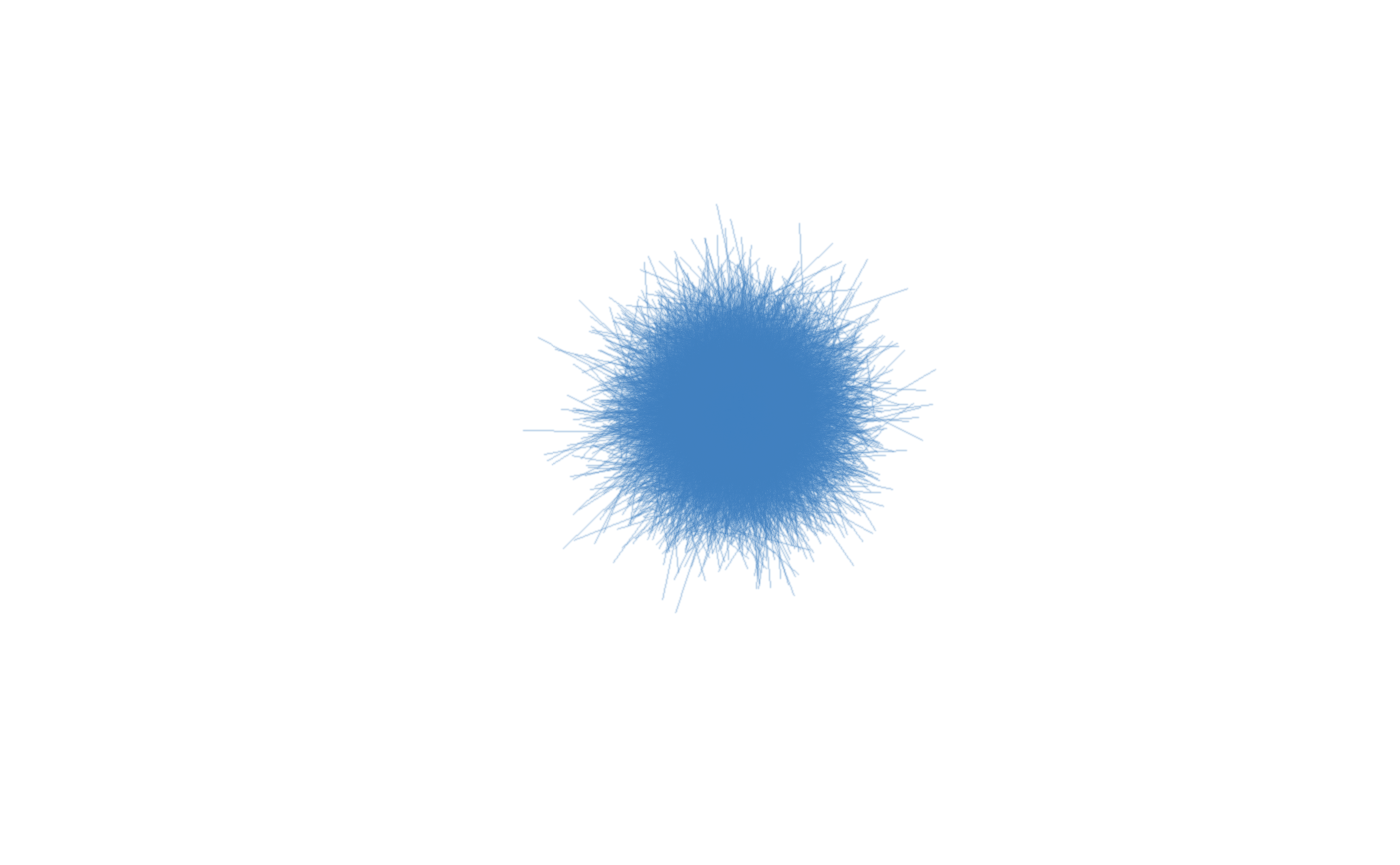
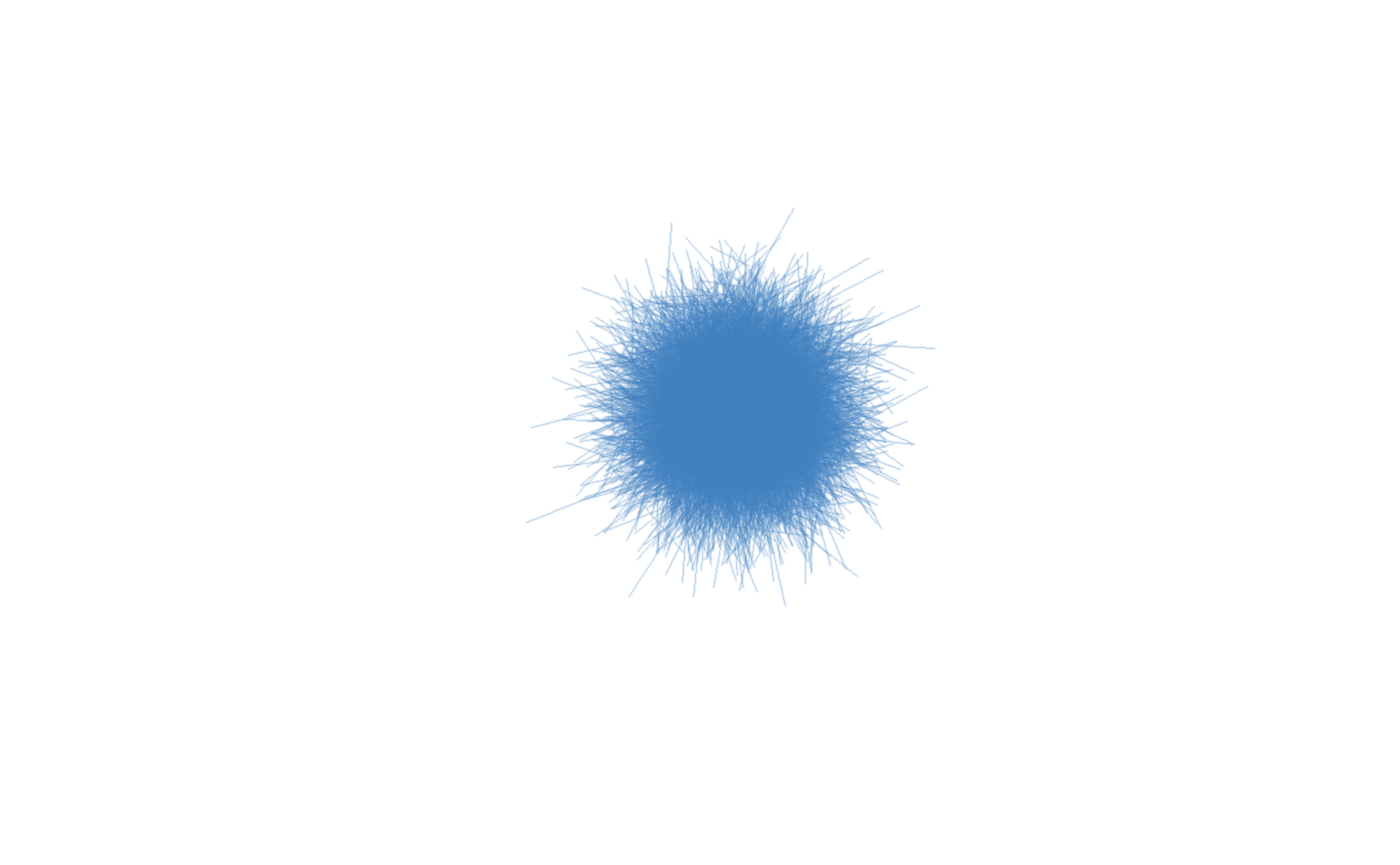
Built site for scattermore: 1.0@1b5859e

Changed region(s): [[0.3993, 0.2809, 0.6757, 0.6867]]

diff --git a/reference/scatter_lines_rgbwt.html b/reference/scatter_lines_rgbwt.html
@@ -68,8 +68,8 @@
     <div id="ref-usage">
     <div class="sourceCode"><pre class="sourceCode r"><code><span><span class="fu">scatter_lines_rgbwt</span><span class="op">(</span></span>
 <span>  <span class="va">xy</span>,</span>
-<span>  xlim <span class="op">=</span> <span class="fu"><a href="https://rdrr.io/r/base/c.html" class="external-link">c</a></span><span class="op">(</span><span class="fu"><a href="https://rdrr.io/r/base/Extremes.html" class="external-link">min</a></span><span class="op">(</span><span class="va">xy</span><span class="op">)</span>, <span class="fu"><a href="https://rdrr.io/r/base/Extremes.html" class="external-link">max</a></span><span class="op">(</span><span class="va">xy</span><span class="op">)</span><span class="op">)</span>,</span>
-<span>  ylim <span class="op">=</span> <span class="fu"><a href="https://rdrr.io/r/base/c.html" class="external-link">c</a></span><span class="op">(</span><span class="fu"><a href="https://rdrr.io/r/base/Extremes.html" class="external-link">min</a></span><span class="op">(</span><span class="va">xy</span><span class="op">)</span>, <span class="fu"><a href="https://rdrr.io/r/base/Extremes.html" class="external-link">max</a></span><span class="op">(</span><span class="va">xy</span><span class="op">)</span><span class="op">)</span>,</span>
+<span>  xlim <span class="op">=</span> <span class="fu"><a href="https://rdrr.io/r/base/c.html" class="external-link">c</a></span><span class="op">(</span><span class="fu"><a href="https://rdrr.io/r/base/Extremes.html" class="external-link">min</a></span><span class="op">(</span><span class="va">xy</span><span class="op">[</span>, <span class="fu"><a href="https://rdrr.io/r/base/c.html" class="external-link">c</a></span><span class="op">(</span><span class="fl">1</span>, <span class="fl">3</span><span class="op">)</span><span class="op">]</span><span class="op">)</span>, <span class="fu"><a href="https://rdrr.io/r/base/Extremes.html" class="external-link">max</a></span><span class="op">(</span><span class="va">xy</span><span class="op">[</span>, <span class="fu"><a href="https://rdrr.io/r/base/c.html" class="external-link">c</a></span><span class="op">(</span><span class="fl">1</span>, <span class="fl">3</span><span class="op">)</span><span class="op">]</span><span class="op">)</span><span class="op">)</span>,</span>
+<span>  ylim <span class="op">=</span> <span class="fu"><a href="https://rdrr.io/r/base/c.html" class="external-link">c</a></span><span class="op">(</span><span class="fu"><a href="https://rdrr.io/r/base/Extremes.html" class="external-link">min</a></span><span class="op">(</span><span class="va">xy</span><span class="op">[</span>, <span class="fu"><a href="https://rdrr.io/r/base/c.html" class="external-link">c</a></span><span class="op">(</span><span class="fl">2</span>, <span class="fl">4</span><span class="op">)</span><span class="op">]</span><span class="op">)</span>, <span class="fu"><a href="https://rdrr.io/r/base/Extremes.html" class="external-link">max</a></span><span class="op">(</span><span class="va">xy</span><span class="op">[</span>, <span class="fu"><a href="https://rdrr.io/r/base/c.html" class="external-link">c</a></span><span class="op">(</span><span class="fl">2</span>, <span class="fl">4</span><span class="op">)</span><span class="op">]</span><span class="op">)</span><span class="op">)</span>,</span>
 <span>  out_size <span class="op">=</span> <span class="fu"><a href="https://rdrr.io/r/base/c.html" class="external-link">c</a></span><span class="op">(</span><span class="fl">512</span>, <span class="fl">512</span><span class="op">)</span>,</span>
 <span>  RGBA <span class="op">=</span> <span class="fu"><a href="https://rdrr.io/r/base/c.html" class="external-link">c</a></span><span class="op">(</span><span class="fl">0</span>, <span class="fl">0</span>, <span class="fl">0</span>, <span class="fl">255</span><span class="op">)</span>,</span>
 <span>  skip_start_pixel <span class="op">=</span> <span class="cn">FALSE</span>,</span>

diff --git a/reference/scatter_lines_histogram.html b/reference/scatter_lines_histogram.html
@@ -68,8 +68,8 @@
     <div id="ref-usage">
     <div class="sourceCode"><pre class="sourceCode r"><code><span><span class="fu">scatter_lines_histogram</span><span class="op">(</span></span>
 <span>  <span class="va">xy</span>,</span>
-<span>  xlim <span class="op">=</span> <span class="fu"><a href="https://rdrr.io/r/base/c.html" class="external-link">c</a></span><span class="op">(</span><span class="fu"><a href="https://rdrr.io/r/base/Extremes.html" class="external-link">min</a></span><span class="op">(</span><span class="va">xy</span><span class="op">)</span>, <span class="fu"><a href="https://rdrr.io/r/base/Extremes.html" class="external-link">max</a></span><span class="op">(</span><span class="va">xy</span><span class="op">)</span><span class="op">)</span>,</span>
-<span>  ylim <span class="op">=</span> <span class="fu"><a href="https://rdrr.io/r/base/c.html" class="external-link">c</a></span><span class="op">(</span><span class="fu"><a href="https://rdrr.io/r/base/Extremes.html" class="external-link">min</a></span><span class="op">(</span><span class="va">xy</span><span class="op">)</span>, <span class="fu"><a href="https://rdrr.io/r/base/Extremes.html" class="external-link">max</a></span><span class="op">(</span><span class="va">xy</span><span class="op">)</span><span class="op">)</span>,</span>
+<span>  xlim <span class="op">=</span> <span class="fu"><a href="https://rdrr.io/r/base/c.html" class="external-link">c</a></span><span class="op">(</span><span class="fu"><a href="https://rdrr.io/r/base/Extremes.html" class="external-link">min</a></span><span class="op">(</span><span class="va">xy</span><span class="op">[</span>, <span class="fu"><a href="https://rdrr.io/r/base/c.html" class="external-link">c</a></span><span class="op">(</span><span class="fl">1</span>, <span class="fl">3</span><span class="op">)</span><span class="op">]</span><span class="op">)</span>, <span class="fu"><a href="https://rdrr.io/r/base/Extremes.html" class="external-link">max</a></span><span class="op">(</span><span class="va">xy</span><span class="op">[</span>, <span class="fu"><a href="https://rdrr.io/r/base/c.html" class="external-link">c</a></span><span class="op">(</span><span class="fl">1</span>, <span class="fl">3</span><span class="op">)</span><span class="op">]</span><span class="op">)</span><span class="op">)</span>,</span>
+<span>  ylim <span class="op">=</span> <span class="fu"><a href="https://rdrr.io/r/base/c.html" class="external-link">c</a></span><span class="op">(</span><span class="fu"><a href="https://rdrr.io/r/base/Extremes.html" class="external-link">min</a></span><span class="op">(</span><span class="va">xy</span><span class="op">[</span>, <span class="fu"><a href="https://rdrr.io/r/base/c.html" class="external-link">c</a></span><span class="op">(</span><span class="fl">2</span>, <span class="fl">4</span><span class="op">)</span><span class="op">]</span><span class="op">)</span>, <span class="fu"><a href="https://rdrr.io/r/base/Extremes.html" class="external-link">max</a></span><span class="op">(</span><span class="va">xy</span><span class="op">[</span>, <span class="fu"><a href="https://rdrr.io/r/base/c.html" class="external-link">c</a></span><span class="op">(</span><span class="fl">2</span>, <span class="fl">4</span><span class="op">)</span><span class="op">]</span><span class="op">)</span><span class="op">)</span>,</span>
 <span>  out_size <span class="op">=</span> <span class="fu"><a href="https://rdrr.io/r/base/c.html" class="external-link">c</a></span><span class="op">(</span><span class="fl">512</span>, <span class="fl">512</span><span class="op">)</span>,</span>
 <span>  skip_start_pixel <span class="op">=</span> <span class="cn">FALSE</span>,</span>
 <span>  skip_end_pixel <span class="op">=</span> <span class="cn">TRUE</span></span>
